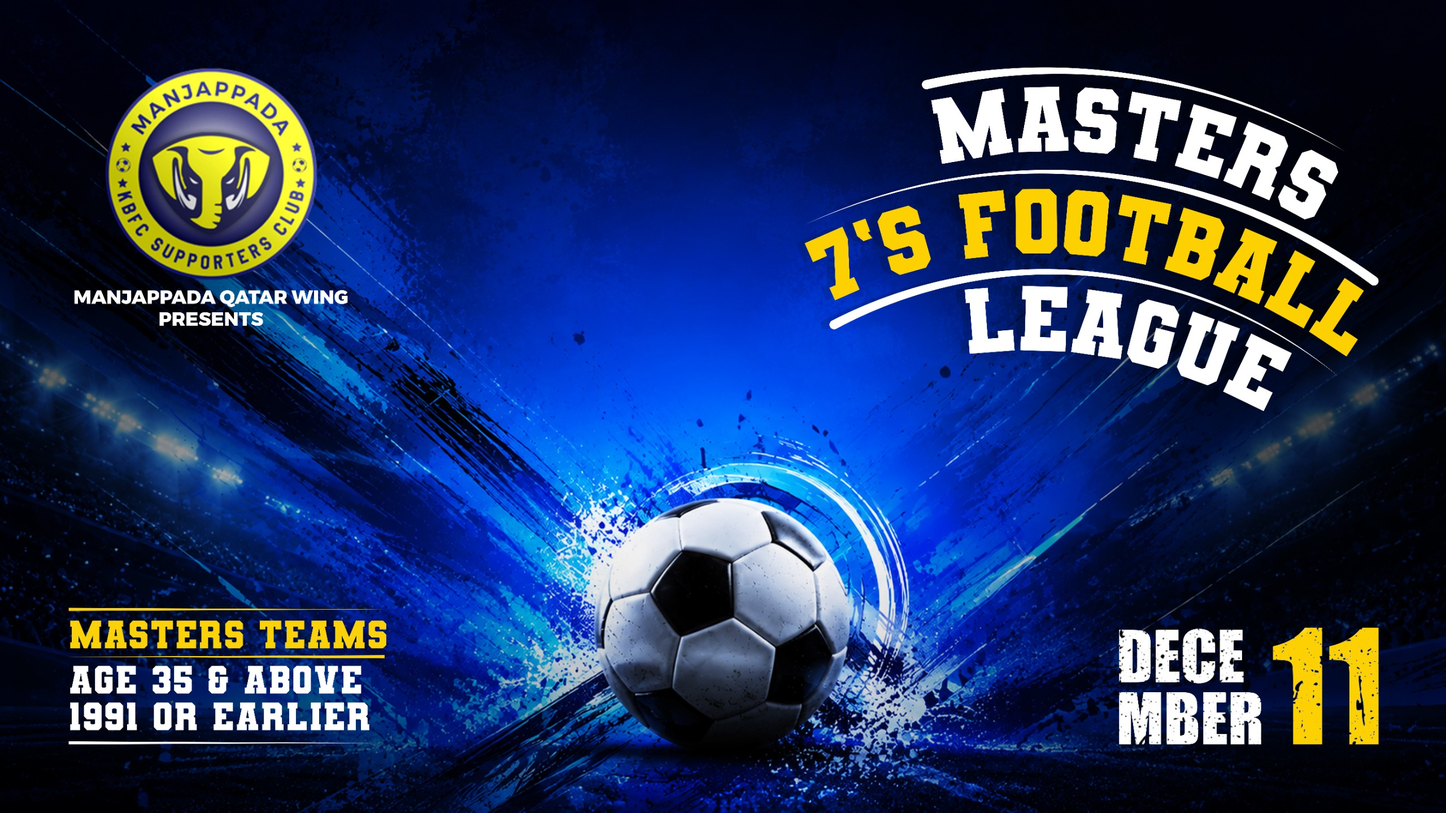
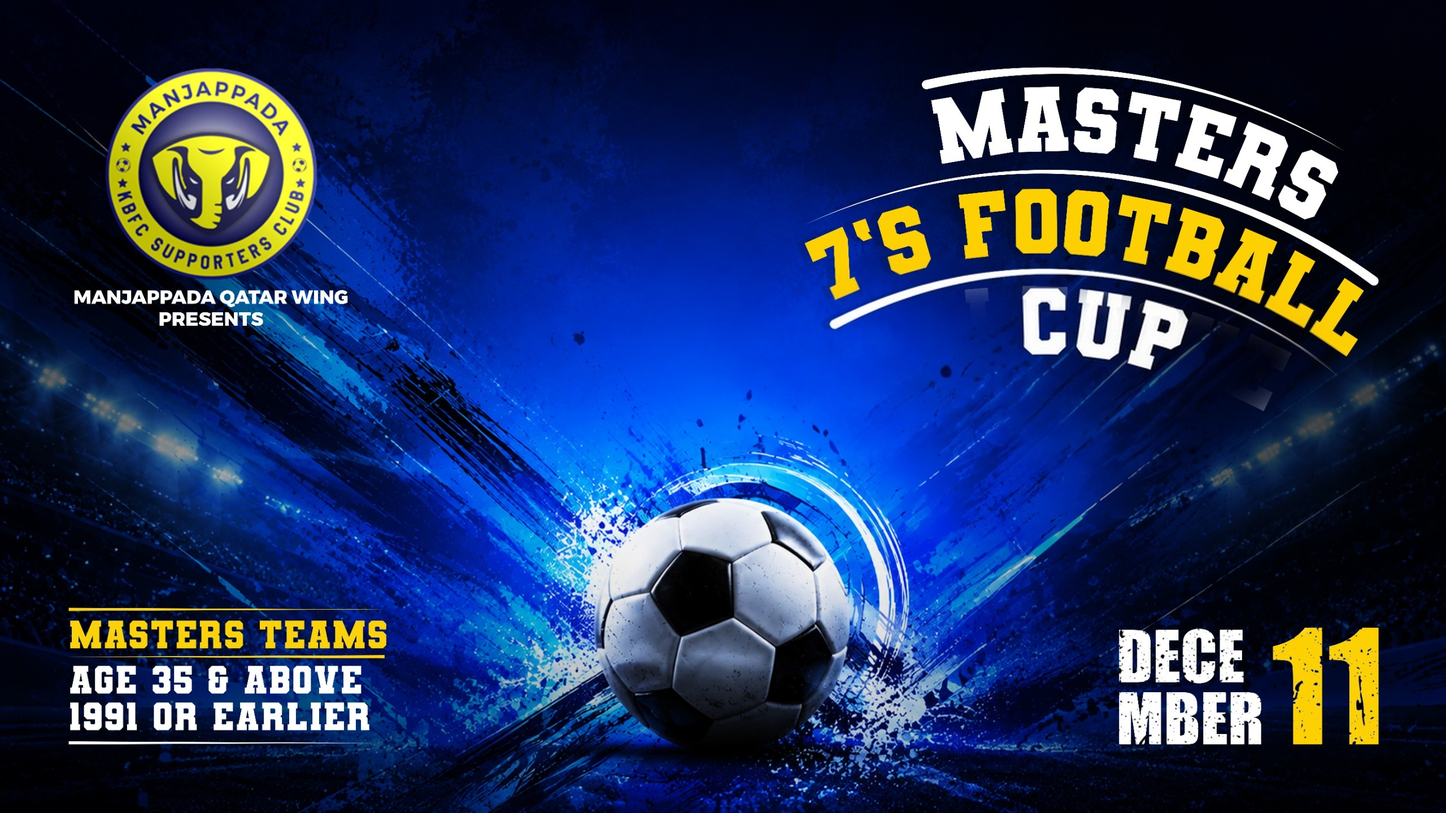
Rename Masters 7's Football League to Cup
Update site chrome, player cards, banner, crest, and default tournament
name so live branding matches Masters Cup.

Changed region(s): [[0.625, 0.3125, 0.9062, 0.5], [0.5625, 0.3438, 0.5938, 0.4062]]

diff --git a/client/src/components/Layout.jsx b/client/src/components/Layout.jsx
@@ -19,9 +19,9 @@ export default function Layout() {
       <header className="site-header">
         <div className="container nav-row">
           <NavLink to="/" className="brand">
-            <img className="brand-logo" src="/mmfl-logo.png" alt="Masters league crest" />
+            <img className="brand-logo" src="/mmfl-logo.png" alt="Masters cup crest" />
             <span className="brand-text">
-              <strong>Masters 7&apos;s Football League</strong>
+              <strong>Masters 7&apos;s Football Cup</strong>
               <span>Manjappada Qatar</span>
             </span>
           </NavLink>
@@ -49,7 +49,7 @@ export default function Layout() {
         <div className="container footer-row">
           <span className="footer-brand">
             <img src="/mmfl-logo.png" alt="" />
-            Masters 7&apos;s Football League
+            Masters 7&apos;s Football Cup
           </span>
           <NavLink to="/rules">Rules &amp; Regulations</NavLink>
           <span>Manjappada Qatar</span>

diff --git a/client/src/pages/Home.jsx b/client/src/pages/Home.jsx
@@ -25,13 +25,13 @@ export default function Home() {
         <img
           className="hero-banner"
           src="/mmfl-banner.jpg"
-          alt="Masters 7's Football League — Manjappada Qatar Wing presents — age 35 & above, December 11"
+          alt="Masters 7's Football Cup — Manjappada Qatar Wing presents — age 35 & above, December 11"
         />
         <div className="hero-band">
           <div className="container hero-band-inner">
             <div className="hero-content">
               <h1 className="hero-brand">
-                Masters <em>7&apos;s</em> Football League
+                Masters <em>7&apos;s</em> Football Cup
               </h1>
               <p className="hero-copy">
                 Masters teams · Age 35 &amp; above · December 11 · Follow fixtures, standings, and every club in the race.

diff --git a/client/src/pages/RegistrationDetail.jsx b/client/src/pages/RegistrationDetail.jsx
@@ -38,7 +38,7 @@ export default function RegistrationDetail() {
                 )}
                 <div>
                   <h1>{data.team_name}</h1>
-                  <p>Masters 7&apos;s Football League · Manjappada Qatar</p>
+                  <p>Masters 7&apos;s Football Cup · Manjappada Qatar</p>
                 </div>
               </div>
 
@@ -83,7 +83,7 @@ export default function RegistrationDetail() {
             <div className="section-head">
               <div>
                 <h2>Squad ID cards</h2>
-                <p>Registered players for Masters 7&apos;s Football League.</p>
+                <p>Registered players for Masters 7&apos;s Football Cup.</p>
               </div>
             </div>
 

diff --git a/client/index.html b/client/index.html
@@ -3,7 +3,7 @@
   <head>
     <meta charset="UTF-8" />
     <meta name="viewport" content="width=device-width, initial-scale=1.0" />
-    <title>Masters 7's Football League | Manjappada Qatar</title>
+    <title>Masters 7's Football Cup | Manjappada Qatar</title>
     <link rel="icon" type="image/png" href="/mmfl-logo.png" />
     <link rel="preconnect" href="https://fonts.googleapis.com" />
     <link rel="preconnect" href="https://fonts.gstatic.com" crossorigin />

diff --git a/functions/api/[[route]].js b/functions/api/[[route]].js
@@ -43,7 +43,7 @@ async function getTournamentId(db) {
       `INSERT INTO tournament (name, season, venue, start_date, end_date, status)
        VALUES (?, ?, ?, ?, ?, ?)`
     )
-    .bind("Masters 7's Football League", '2026', 'Doha', '2026-01-01', '2026-12-31', 'live')
+    .bind("Masters 7's Football Cup", '2026', 'Doha', '2026-01-01', '2026-12-31', 'live')
     .run();
   return created.meta.last_row_id;
 }

diff --git a/client/src/components/PlayerCard.jsx b/client/src/components/PlayerCard.jsx
@@ -16,7 +16,7 @@ export default function PlayerCard({
 
   return (
     <article className="player-id-card">
-      <div className="player-id-card__title">Masters 7&apos;s Football League</div>
+      <div className="player-id-card__title">Masters 7&apos;s Football Cup</div>
       <div className="player-id-card__region">Qatar</div>
 
       <div className="player-id-card__body">

diff --git a/README.md b/README.md
@@ -1,6 +1,6 @@
 # Manjappada Masters — Club Cup
 
-Tournament website for Manjappada Masters / Masters 7's Football League.
+Tournament website for Manjappada Masters / Masters 7's Football Cup.
 
 **Local stack:** React (Vite) · Express · MySQL (XAMPP)  
 **Cloud (free):** Cloudflare Pages · Pages Functions (Hono) · D1
